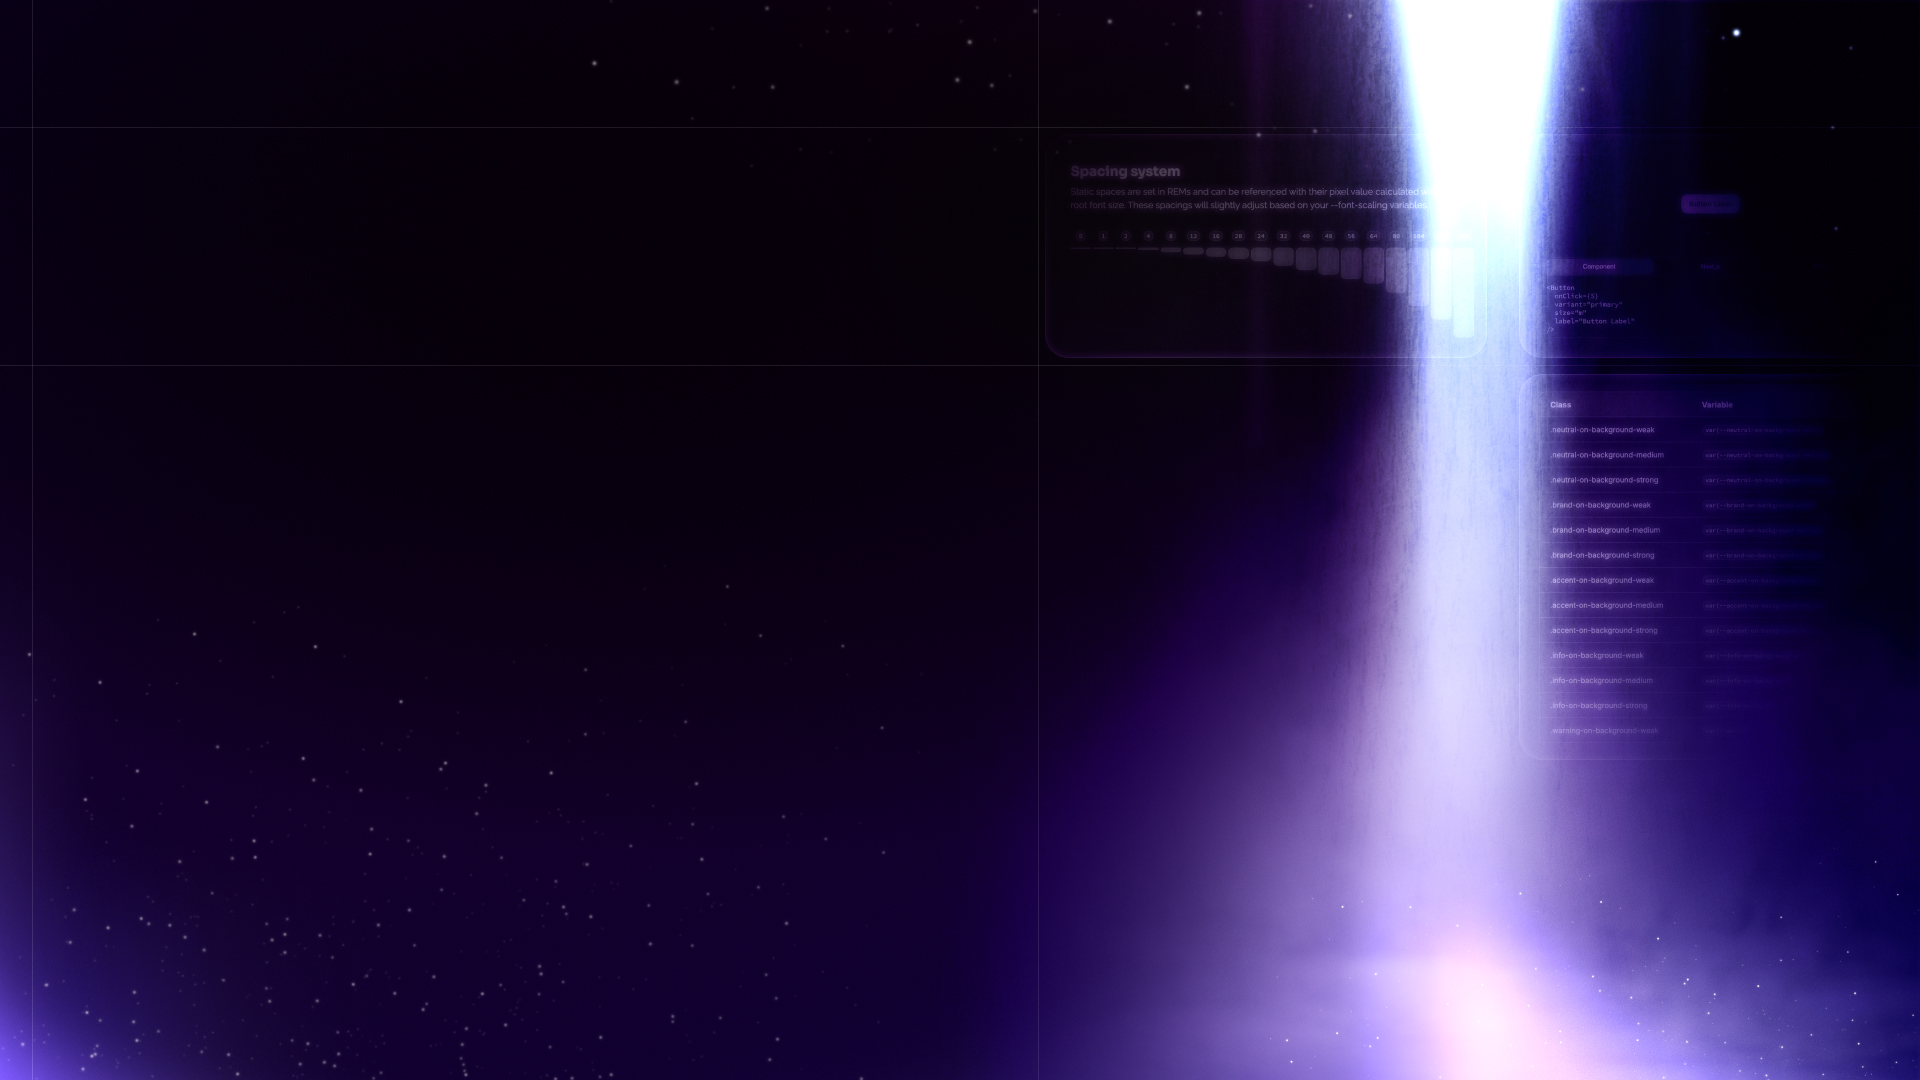
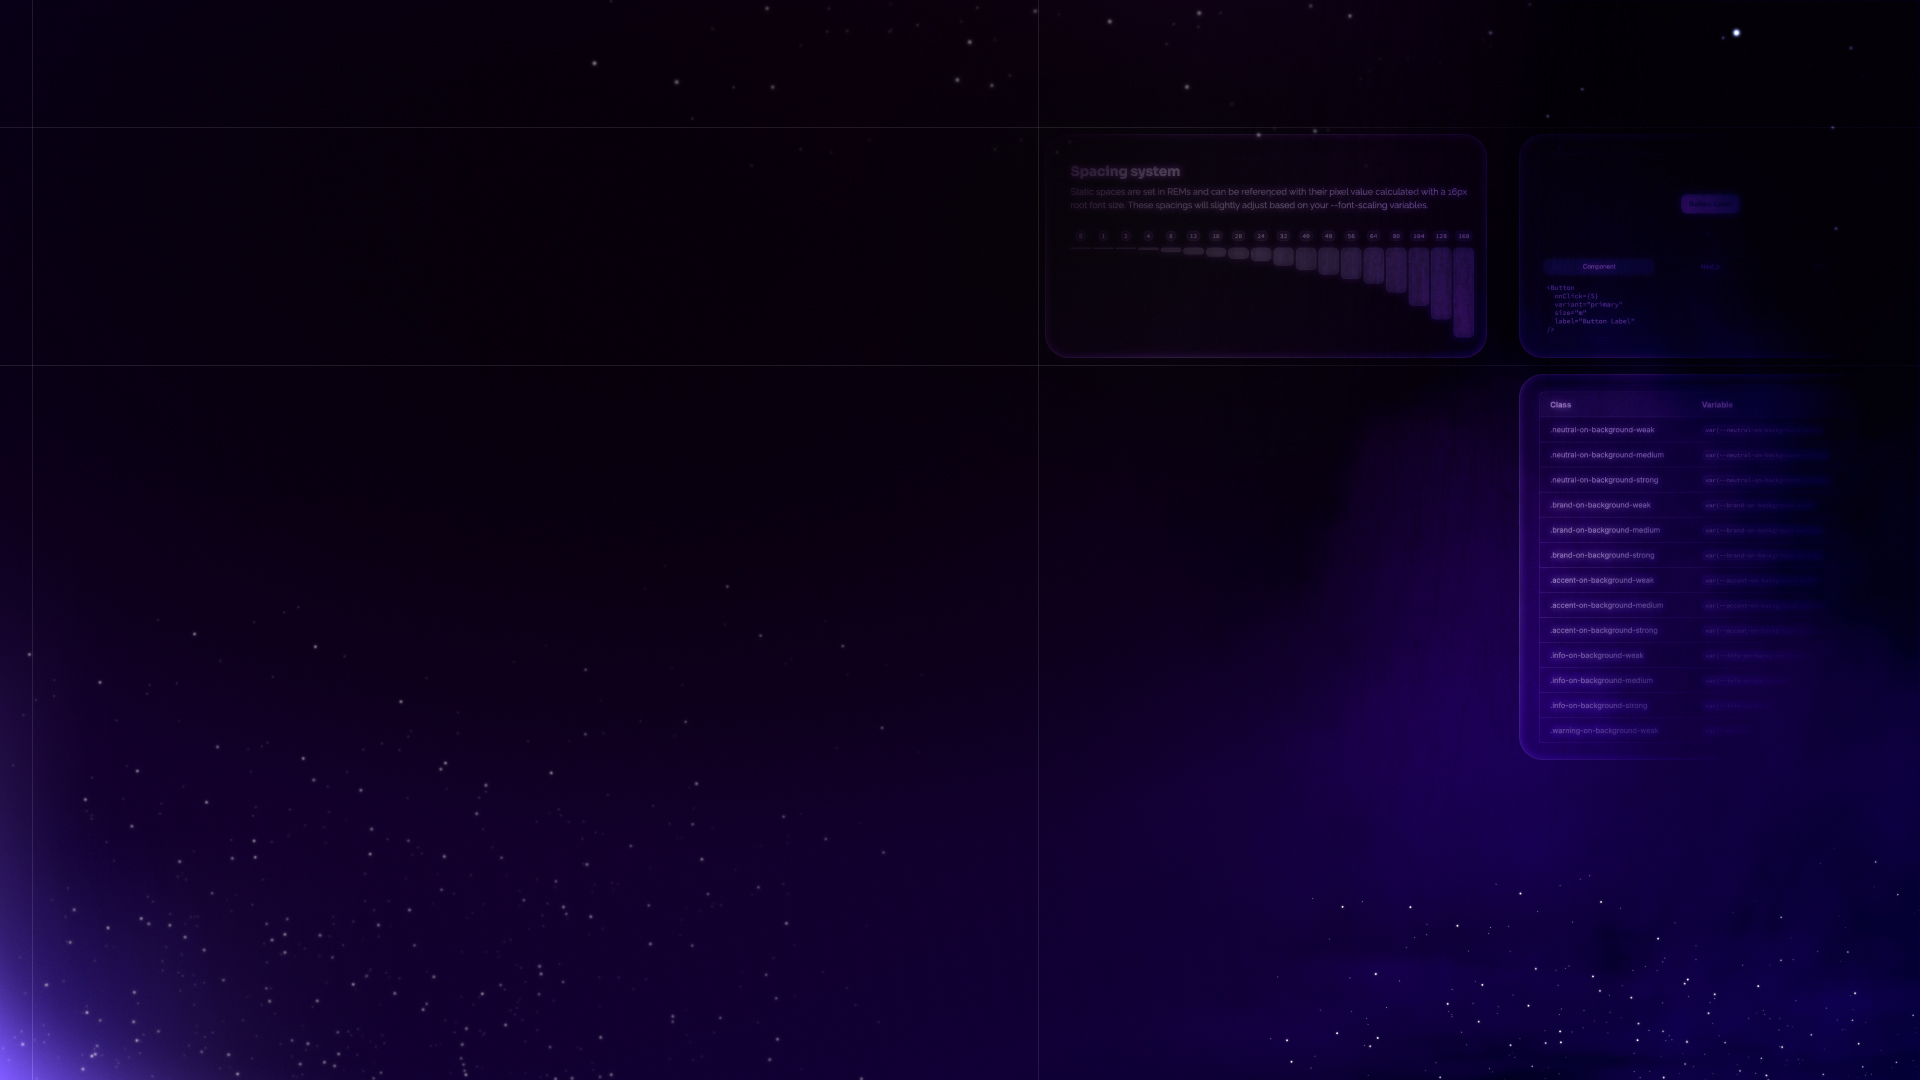
og template update

Changed region(s): [[0.5, 0.0, 1.0, 1.0]]

diff --git a/src/app/og/route.tsx b/src/app/og/route.tsx
@@ -1,5 +1,6 @@
 import { ImageResponse } from 'next/og'
 import { baseURL } from '@/app/resources';
+import { person } from '@/app/resources'; 
 
 export const runtime = 'edge';
 
@@ -18,23 +19,65 @@ export async function GET(request: Request) {
                     display: 'flex',
                     width: '100%',
                     height: '100%',
-                    paddingTop: '12rem',
+                    padding: '6rem 12rem',
                     backgroundImage: `url(https://${baseURL}/og/template.jpg)`
                 }}>
                 <div
                     style={{
-                        marginLeft: 190,
-                        marginRight: 190,
                         display: 'flex',
-                        fontSize: 130,
                         fontFamily: 'Inter',
-                        letterSpacing: '-0.05em',
                         fontStyle: 'normal',
                         color: 'white',
-                        lineHeight: '120px',
-                        whiteSpace: 'pre-wrap',
                     }}>
-                {title}
+                    <span
+                        style={{
+                            fontSize: '8rem',
+                            letterSpacing: '-0.05em',
+                            lineHeight: '120px',
+                            whiteSpace: 'pre-wrap',
+                            textWrap: 'balance',
+                        }}>
+                        {title}
+                    </span>
+                    <div
+                        style={{
+                            display: 'flex',
+                            alignItems: 'center',
+                            gap: '5rem'
+                        }}>
+                        <div style={{
+                            minWidth: '12rem',
+                            minHeight: '12rem',
+                            borderRadius: '100%',
+                            backgroundImage: `url(https://${baseURL}${person.avatar})`
+                        }}></div>
+                        <div
+                            style={{
+                                display: 'flex',
+                                flexDirection: 'column',
+                                gap: '0.75rem'
+                            }}>
+                            <span
+                                style={{
+                                    fontSize: '4.5rem',
+                                    lineHeight: '120px',
+                                    whiteSpace: 'pre-wrap',
+                                    textWrap: 'balance',
+                                }}>
+                                {person.name}
+                            </span>
+                            <span
+                                style={{
+                                    fontSize: '3rem',
+                                    lineHeight: '120px',
+                                    whiteSpace: 'pre-wrap',
+                                    textWrap: 'balance',
+                                    opacity: '0.6'
+                                }}>
+                                {person.role}
+                            </span>
+                        </div>
+                    </div>
                 </div>
             </div>
         ),

diff --git a/src/once-ui/tokens/layout.scss b/src/once-ui/tokens/layout.scss
@@ -65,7 +65,7 @@
         --responsive-width-l:  var(--static-width-1024);
         --responsive-width-m:  var(--static-width-880);
         --responsive-width-s:  var(--static-width-880);
-        --responsive-width-xs: var(--static-width-320);
+        --responsive-width-xs: var(--static-width-640);
 
         --responsive-height-xl: var(--static-height-480);
         --responsive-height-l:  var(--static-height-400);
@@ -87,7 +87,7 @@
         --responsive-width-l:  var(--static-width-1024);
         --responsive-width-m:  var(--static-width-880);
         --responsive-width-s:  var(--static-width-880);
-        --responsive-width-xs: var(--static-width-320);
+        --responsive-width-xs: var(--static-width-640);
 
         --responsive-height-xl: var(--static-height-320);
         --responsive-height-l:  var(--static-height-280);

diff --git a/src/once-ui/tokens/typography.scss b/src/once-ui/tokens/typography.scss
@@ -16,7 +16,7 @@
     /* FONT SCALING */
     --font-scaling-desktop: 16px;
     --font-scaling-tablet:  15px;
-    --font-scaling-mobile:  14px;
+    --font-scaling-mobile:  15px;
 
     /* FONT WEIGHT */
     --font-weight-thin:       100;
